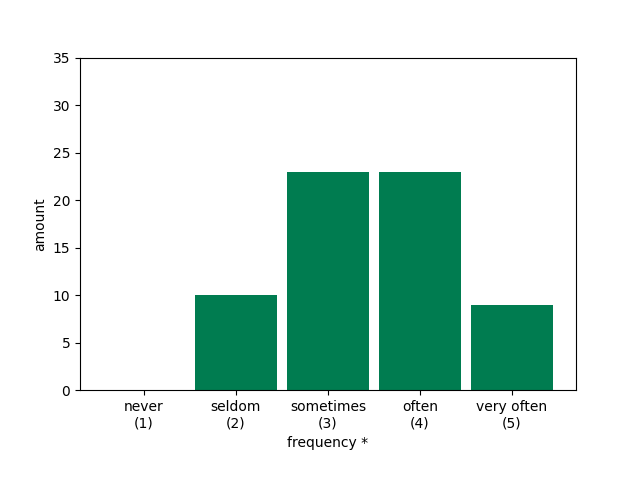
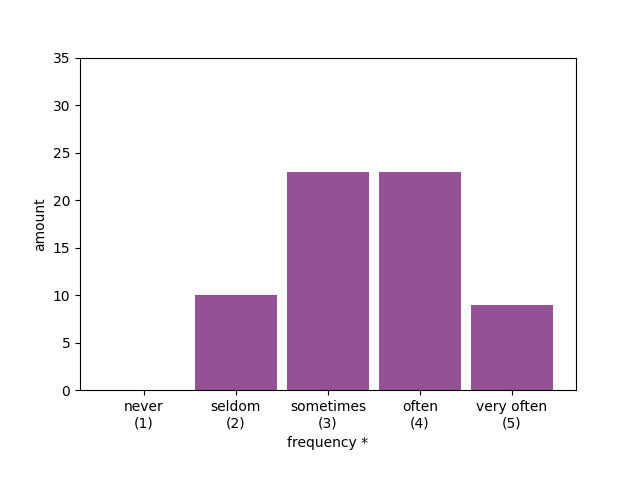
changed colors of 2 diagrams

Changed region(s): [[0.2812, 0.3438, 0.875, 0.8125]]

diff --git a/create_pie_charts.py b/create_pie_charts.py
@@ -63,7 +63,7 @@ def create_basic_diagrams(which_diagram):
         sizes = [never, seldom, sometimes, often, very_often]
 
         fig, ax1 = plt.subplots()
-        _, _, chart = ax1.pie(sizes, labels=labels, autopct='%1.1f%%', startangle=0, colors=['#00283b', '#00525d', '#007c50', '#779d18', '#ffa600'])
+        _, _, chart = ax1.pie(sizes, labels=labels, autopct='%1.1f%%', startangle=0, colors=['#003f5c', '#58508d', '#bc5090', '#ff6361', '#ffa600'])
         
         # change color of percentage text in the chart
         # source: https://stackoverflow.com/questions/27898830/python-how-to-change-autopct-text-color-to-be-white-in-a-pie-chart
@@ -126,8 +126,8 @@ def create_basic_diagrams(which_diagram):
 def main():
 
     # create_basic_diagrams('gender')
-    # create_basic_diagrams('book frequency')
-    create_basic_diagrams('age')
+    create_basic_diagrams('book frequency')
+    # create_basic_diagrams('age')
 
 
 if __name__ == main():

diff --git a/create_histograms.py b/create_histograms.py
@@ -278,7 +278,7 @@ def create_histogram(which_histogram):
         print(bins)
         # fig = plt.figure()
         ax = plt.figure().gca()
-        plt.hist(frequently_book, bins = bins, rwidth=0.9, color='#007c50', align='left') 
+        plt.hist(frequently_book, bins = bins, rwidth=0.9, color='#955196', align='left') 
         # plt.xlim([0, 65])
         # plt.xticks(np.arange(9,61,1))
         ax.set_xticks([1, 2, 3, 4, 5])
